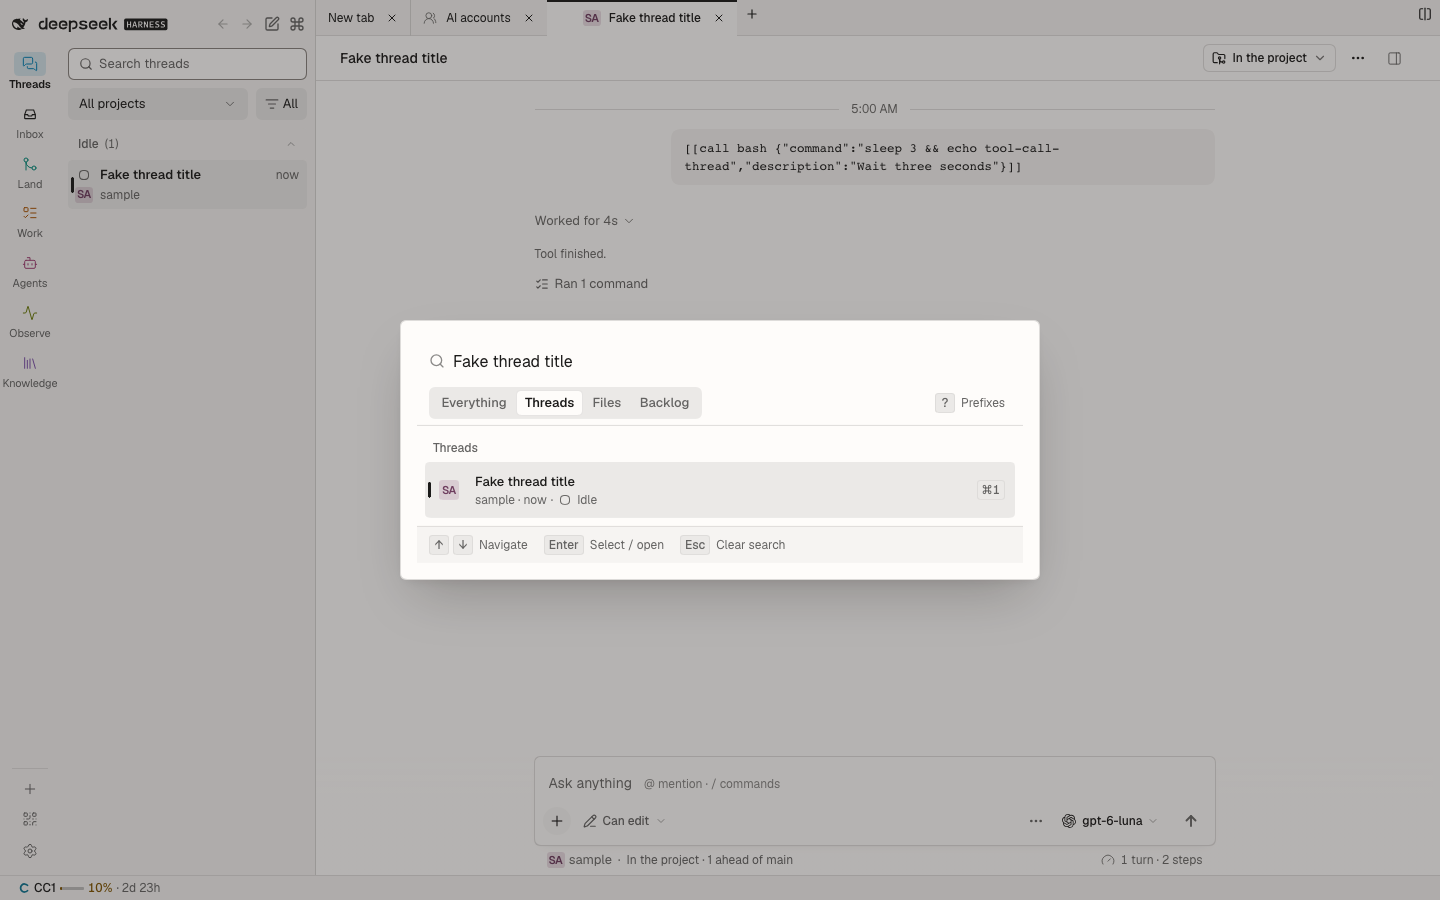
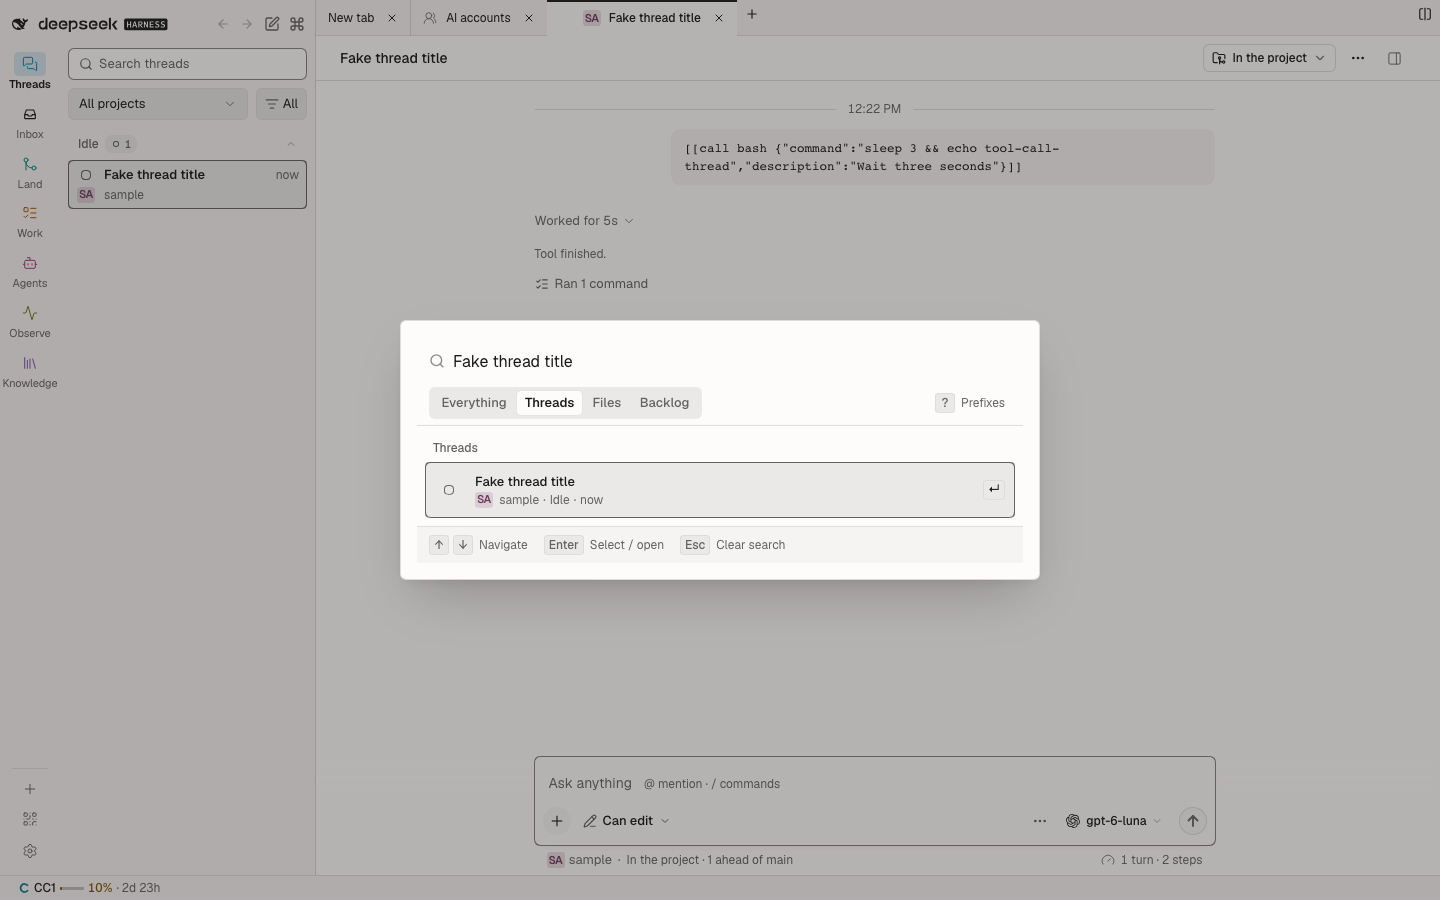
fix(command-palette): read every thread row in the thread list's grammar

diff --git a/plugins/@dshfiles/command-palette/src/thread-palette.tsx b/plugins/@dshfiles/command-palette/src/thread-palette.tsx
@@ -6,7 +6,7 @@ import { Tabs, TabsList, TabsTrigger } from '@dshfiles/plugin-ui/components/ui/t
 import { matchesPhoneShell } from '@dshfiles/plugin-ui/lib/phone-shell'
 import { Kbd, KbdGroup, KeyHint } from '@dshfiles/plugin-ui/components/ui/kbd'
 import { AttentionMeta } from '@dshfiles/plugin-ui/components/ui/attention-meta'
-import { ProjectMark, type ProjectMarkProps } from '@dshfiles/plugin-ui/components/ui/project-mark'
+import type { ProjectMarkProps } from '@dshfiles/plugin-ui/components/ui/project-mark'
 import { LEADING_GLYPH_ATTRIBUTE } from '@dshfiles/plugin-ui/components/selection'
 import { ArrowLeftIcon, CheckIcon, CommandIcon, FileIcon, FileSearchIcon, HashIcon, ListOrderedIcon, MessageSquareIcon } from '@dshfiles/plugin-ui/icons'
 import { StatusGlyph } from '@dshfiles/plugin-ui/components/work-status'
@@ -159,7 +159,7 @@ const neutralMark = 'dshx:bg-muted dshx:text-muted-foreground'
 type ProjectMarkPaint = Pick<ProjectMarkProps, 'tone' | 'color' | 'palette' | 'className' | 'style'>
 
 /**
- * The project tile of a thread row (round five T6): the thread list's `ProjectMark`, in the tone or colour the list gives
+ * The project mark on a thread row's meta line (round five T6, council round 16 B1): the thread list's `ProjectMark`, in the tone or colour the list gives
  * the project. A custom pick rides as --chip and is clamped per scheme (L <= 0.52 in light, L >= 0.78 in dark), so a
  * pale or dark pick still reads. Without a colour source the tile stays neutral ink.
  */
@@ -678,59 +678,33 @@ export const ThreadPalette = (props: ThreadPaletteProps): JSX.Element => {
         <CommandGroup heading={emptyQuery ? props.copy.recent : props.copy.threads}>
           {threadRows.map(thread => {
             const row: PaletteRow = { kind: 'thread', thread }
-            const project = thread.project.length > 0 ? thread.project : props.copy.unassigned
             // The list's status, rolled up: a thread that waits for an answer is Needs you here too, not Working.
             const listed = props.threadStatusOf?.(thread)
-            // A thread that needs you or failed reads as the list row and the Inbox card do (council round 15 B3): its
-            // status glyph leads, and the meta is the kit's AttentionMeta, `[mark] project · kind · age`, in the one
-            // word list (Approval, Question, Turn failed). Every other row keeps its project tile and its status word.
-            const attentionKind = listed?.status === 'needs-you' || listed?.status === 'failed' ? listed.kind : undefined
+            // One row grammar, the thread list's (council round 16 B1): the rail is the status glyph on every row, and
+            // line 2 is the kit's AttentionMeta, `[mark] project · word · age`, the word from the one list (Working,
+            // Ready, Idle, Approval, Question, Turn failed). No status tail, no project tile in the rail. Without a status
+            // provider the thread's own running fact picks Working or Idle.
+            const status = listed?.status ?? (thread.running === true ? 'working' : 'idle')
+            const word = listed === undefined ? (thread.running === true ? props.copy.working : props.copy.idle) : (listed.kind ?? listed.label)
             const age = thread.updatedAt > 0 ? recentTime(thread.updatedAt) : undefined
             return (
               <CommandItem key={thread.id} value={rowValue(row)} className={itemClass} onSelect={() => void activate(row)}>
+                {/* The palette's 28px leading column keeps every row's title on one edge; inside it the glyph sits in the
+                    kit's 20px rail seat, the thread list's. */}
                 <span className="dshx:flex dshx:size-7 dshx:shrink-0 dshx:items-center dshx:justify-center" aria-hidden="true" {...LEADING_GLYPH_ATTRIBUTE}>
-                  {listed !== undefined && attentionKind !== undefined ? (
-                    // The row's own rule greys every icon without a text colour; the glyph keeps its status hue.
-                    <StatusGlyph status={listed.status} decorative className="dshx:[&_svg]:text-current!" />
-                  ) : thread.project.length > 0 ? (
-                    <ProjectMark name={project} data-palette-project-mark="" {...projectMarkPaint(props.projectColorOf?.(thread))} />
-                  ) : (
-                    <span
-                      className={cn('dshx:flex dshx:size-5 dshx:items-center dshx:justify-center dshx:rounded-sm', neutralMark)}
-                      data-palette-project-mark=""
-                    >
-                      <MessageSquareIcon className="dshx:size-3.5" />
-                    </span>
-                  )}
+                  <span className="dshx:inline-flex dshx:w-[var(--attention-meta-rail-seat,20px)] dshx:justify-center" data-palette-status-seat="">
+                    {/* The row's own rule greys every icon without a text colour; the glyph keeps its status hue. */}
+                    <StatusGlyph status={status} decorative className="dshx:[&_svg]:text-current!" />
+                  </span>
                 </span>
                 <span className="dshx:flex dshx:min-w-0 dshx:flex-1 dshx:flex-col">
                   <span className="dshx:truncate dshx:text-sm dshx:font-medium">{thread.title}</span>
-                  {attentionKind !== undefined ? (
-                    <AttentionMeta
-                      project={thread.project.length > 0 ? thread.project : undefined}
-                      kind={attentionKind}
-                      age={age}
-                      mark={{ ...projectMarkPaint(props.projectColorOf?.(thread)), 'data-palette-project-mark': '' }}
-                    />
-                  ) : (
-                    <span className="dshx:flex dshx:min-w-0 dshx:items-center dshx:gap-1 dshx:text-xs dshx:text-muted-foreground">
-                      <span className="dshx:min-w-0 dshx:truncate">
-                        {[project, age ?? null, listed !== undefined || thread.running === undefined ? null : thread.running ? props.copy.working : props.copy.idle]
-                          .filter(value => value !== null)
-                          .join(' · ')}
-                      </span>
-                      {listed === undefined ? null : (
-                        <>
-                          <span aria-hidden="true">·</span>
-                          {/* The row's own rule greys every icon without a text colour; the glyph keeps its status hue. */}
-                          <StatusGlyph status={listed.status} decorative className="dshx:[&_svg]:text-current!" />
-                          <span className="dshx:shrink-0" data-palette-thread-status="">
-                            {listed.label}
-                          </span>
-                        </>
-                      )}
-                    </span>
-                  )}
+                  <AttentionMeta
+                    project={thread.project.length > 0 ? thread.project : undefined}
+                    kind={word}
+                    age={age}
+                    mark={thread.project.length > 0 ? { ...projectMarkPaint(props.projectColorOf?.(thread)), 'data-palette-project-mark': '' } : undefined}
+                  />
                 </span>
                 {shortcut(row)}
               </CommandItem>

diff --git a/plugins/@dshfiles/command-palette/src/thread-palette.client.test.tsx b/plugins/@dshfiles/command-palette/src/thread-palette.client.test.tsx
@@ -552,8 +552,8 @@ describe('Threads tab project scope', () => {
     expect(custom?.style.getPropertyValue('--chip-light')).toBe('oklch(from var(--chip) min(l, 0.52) c h)')
     expect(custom?.style.color).toBe('var(--chip-clamped)')
     expect(custom?.className).toContain('dshx:[--chip-clamped:var(--chip-light)]')
-    const loose = await markOf(/Loose work/)
-    expect(loose?.className).toContain('dshx:bg-muted')
+    // A thread with no project has no mark to draw: its status glyph leads, and line 2 names its word and age (round 16 B1).
+    expect(await markOf(/Loose work/)).toBeNull()
     expect(colorOf).not.toHaveBeenCalledWith(expect.objectContaining({ id: 'session-loose' }))
   })
 
@@ -811,7 +811,7 @@ describe('ThreadPalette goes to threads', () => {
       />,
     )
     const row = await screen.findByRole('option', { name: /Today work/ })
-    expect(row.textContent).toContain('dshfiles · 2m')
+    expect(row.querySelector('[data-attention-meta-part="age"]')?.textContent).toBe('2m')
     expect(row.textContent).not.toContain(new Date().toLocaleDateString())
     const search = screen.getByRole('combobox').closest('[data-slot="command-input-wrapper"]')?.parentElement
     expect(search?.className).toContain('dshx:[&_[data-slot=command-input-wrapper]]:outline-none!')
@@ -863,12 +863,66 @@ describe('ThreadPalette goes to threads', () => {
     }
   })
 
-  it('keeps the status word on a row without an attention kind (council round 15 B3)', async () => {
-    render(palette({ threadStatusOf: thread => (thread.id === 'session-fake-2' ? { status: 'ready', label: 'Ready' } : undefined) }))
-    const row = await screen.findByRole('option', { name: /Fake child run/ })
-    expect(row.querySelector('[data-slot="attention-meta"]')).toBeNull()
-    expect(row.querySelector('[data-palette-thread-status]')?.textContent).toBe('Ready')
-    expect(row.firstElementChild?.querySelector('[data-palette-project-mark]')).not.toBeNull()
+  // One row grammar (council round 16 B1): every thread row's rail is its status glyph in the kit's 20px rail seat, and
+  // line 2 is always AttentionMeta, `[mark] project · word · age`; no status tail, no project tile in the rail.
+  const expectListGrammar = (row: HTMLElement, status: string, word: string, project: string | null): void => {
+    const lead = row.firstElementChild
+    expect(lead?.hasAttribute('data-leading-glyph')).toBe(true)
+    const seat = lead?.querySelector<HTMLElement>('[data-palette-status-seat]')
+    expect(seat?.className).toContain('dshx:w-[var(--attention-meta-rail-seat,20px)]')
+    const glyph = seat?.querySelector('[data-slot="status-glyph"]')
+    expect(glyph?.getAttribute('data-status')).toBe(status)
+    expect(glyph?.className).toContain('dshx:[&_svg]:text-current!')
+    expect(lead?.querySelector('[data-slot="project-mark"]')).toBeNull()
+    const meta = row.querySelector<HTMLElement>('[data-slot="attention-meta"]')
+    expect(meta?.getAttribute('data-mark-seat')).toBe('inline')
+    const parts = Array.from(meta?.querySelectorAll(':scope > [data-attention-meta-part]') ?? []).map(part => part.getAttribute('data-attention-meta-part'))
+    expect(parts).toEqual(project === null ? ['kind', 'sep', 'age'] : ['mark', 'name', 'sep', 'kind', 'sep', 'age'])
+    if (project !== null) expect(meta?.querySelector('[data-attention-meta-part="name"]')?.textContent).toBe(project)
+    expect(meta?.querySelector('[data-attention-meta-part="kind"]')?.textContent).toBe(word)
+    expect(row.querySelector('[data-palette-thread-status]')).toBeNull()
+    expect(row.querySelectorAll('[data-slot="status-glyph"]')).toHaveLength(1)
+    expect(row.querySelectorAll('[data-slot="project-mark"]')).toHaveLength(project === null ? 0 : 1)
+  }
+
+  it('reads every thread row in the list grammar: glyph rail, AttentionMeta with the status word (council round 16 B1)', async () => {
+    const statuses = new Map<string, PaletteThreadStatus>([
+      ['session-fake-1', { status: 'working', label: 'Working' }],
+      ['session-fake-2', { status: 'ready', label: 'Ready' }],
+      ['session-fake-3', { status: 'idle', label: 'Idle' }],
+    ])
+    render(palette({ threadStatusOf: thread => statuses.get(thread.id) }))
+    for (const [title, status, word] of [
+      ['Fake provider seeds', 'working', 'Working'],
+      ['Fake child run', 'ready', 'Ready'],
+      ['Remove the fake clock', 'idle', 'Idle'],
+    ] as const)
+      expectListGrammar(await screen.findByRole('option', { name: new RegExp(title, 'u') }), status, word, 'dshfiles')
+  })
+
+  it('keeps the list grammar without a status provider: the running fact picks the glyph and word (council round 16 B1)', async () => {
+    const threads = [
+      { id: 'session-run', title: 'Running one', project: 'dshfiles', cwd: '/dev/dshfiles', updatedAt: 3, running: true },
+      { id: 'session-rest', title: 'Resting one', project: '', cwd: '/tmp', updatedAt: 2, running: false },
+    ]
+    render(
+      <ThreadPalette
+        mode="all"
+        threads={threads}
+        context={context}
+        additionalActions={[]}
+        recentLimit={6}
+        mac
+        copy={copy}
+        searchContent={null}
+        onAsk={vi.fn(async () => {})}
+        onBacklogCapture={vi.fn(() => true)}
+        onOpenThread={vi.fn()}
+        onClose={vi.fn()}
+      />,
+    )
+    expectListGrammar(await screen.findByRole('option', { name: /Running one/u }), 'working', 'Working', 'dshfiles')
+    expectListGrammar(await screen.findByRole('option', { name: /Resting one/u }), 'idle', 'Idle', null)
   })
 
   it('replaces the clipped prefix legend with one "? Prefixes" hint that opens the prefix list', async () => {

diff --git a/plugins/@dshfiles/command-palette/src/palette-contract.ts b/plugins/@dshfiles/command-palette/src/palette-contract.ts
@@ -95,8 +95,8 @@ export interface PaletteThreadStatus {
   readonly label: string
   /**
    * A Needs-you or Failed thread's kind in the one attention word list (Approval, Question, Turn failed), as the list
-   * row's line 2 says it. With it the row reads `[mark] project · kind · age` through the kit's AttentionMeta (council
-   * round 15 B3); without it (an older provider, any other status) the row keeps its status word.
+   * row's line 2 says it. Every row reads `[mark] project · word · age` through the kit's AttentionMeta (council round
+   * 16 B1): the word is this kind, else `label` (an older provider, any other status).
    */
   readonly kind?: string | undefined
 }
